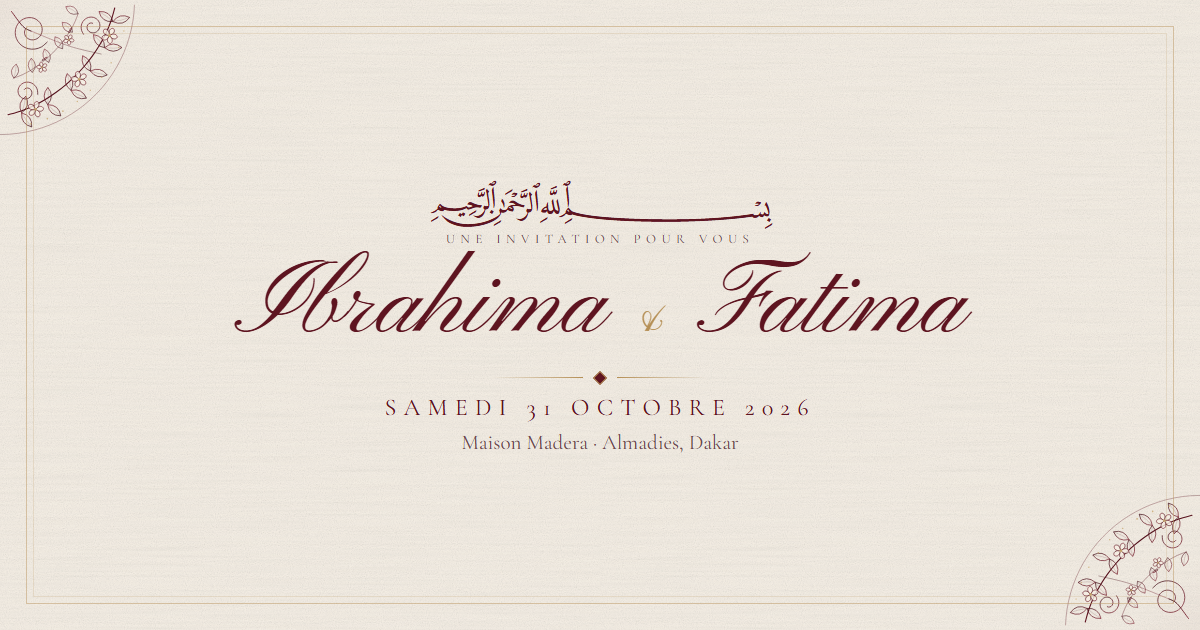
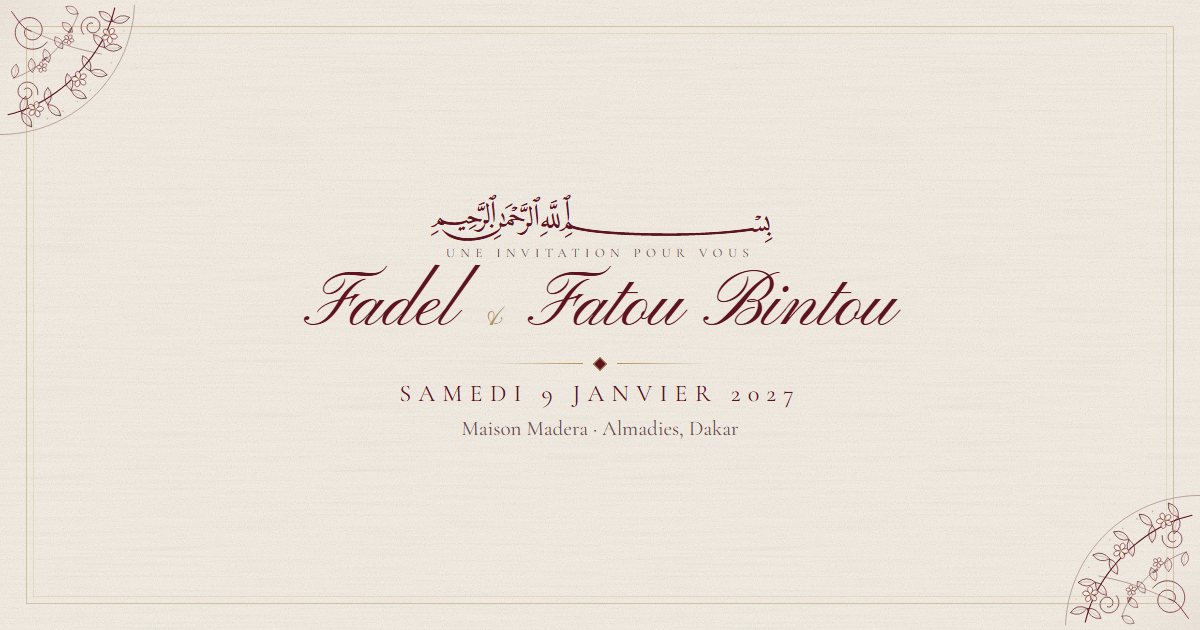
Données du couple (Fadel & Fatou Bintou, 9 janvier 2027) : titres, métadonnées de partage, carte d'aperçu pilotée par config.js

diff --git a/index.html b/index.html
@@ -3,19 +3,19 @@
 <head>
   <meta charset="utf-8">
   <meta name="viewport" content="width=device-width, initial-scale=1, viewport-fit=cover">
-  <title>Ibrahima &amp; Fatima · 31 octobre 2026</title>
-  <meta name="description" content="Ibrahima et Fatima ont la joie de vous inviter à leur union, le samedi 31 octobre 2026 à la Maison Madera, Almadies, Dakar.">
+  <title>Fadel &amp; Fatou Bintou · 9 janvier 2027</title>
+  <meta name="description" content="Fadel et Fatou Bintou ont la joie de vous inviter à leur union, le samedi 9 janvier 2027 à la Maison Madera, Almadies, Dakar.">
   <meta name="theme-color" content="#f6efe4">
   <meta property="og:type" content="website">
-  <meta property="og:site_name" content="Ibrahima &amp; Fatima">
+  <meta property="og:site_name" content="Fadel &amp; Fatou Bintou">
   <meta property="og:locale" content="fr_FR">
   <meta property="og:url" content="https://ibfaye-senatiq.github.io/invitation/">
-  <meta property="og:title" content="Ibrahima &amp; Fatima · 31 octobre 2026">
-  <meta property="og:description" content="Une belle histoire commence… Nous avons la joie de vous inviter à notre union.">
+  <meta property="og:title" content="Fadel &amp; Fatou Bintou · 9 janvier 2027">
+  <meta property="og:description" content="Une belle histoire commence… Nous avons la joie de vous inviter à notre union. Samedi 9 janvier 2027, Maison Madera, Almadies, Dakar.">
   <meta property="og:image" content="https://ibfaye-senatiq.github.io/invitation/assets/apercu.png">
   <meta property="og:image:width" content="1200">
   <meta property="og:image:height" content="630">
-  <meta property="og:image:alt" content="Ibrahima &amp; Fatima — 31 octobre 2026">
+  <meta property="og:image:alt" content="Fadel &amp; Fatou Bintou — 9 janvier 2027">
   <meta name="twitter:card" content="summary_large_image">
   <meta name="robots" content="noindex">
 
@@ -56,10 +56,10 @@
         <!-- la lettre qui sort -->
         <div class="lettre" id="lettre">
           <div class="lettre-interieur">
-            <span class="lettre-nom" data-cfg="prenoms.a">Ibrahima</span>
+            <span class="lettre-nom" data-cfg="prenoms.a">Fadel</span>
             <span class="lettre-amp">&amp;</span>
-            <span class="lettre-nom" data-cfg="prenoms.b">Fatima</span>
-            <span class="lettre-date" data-cfg="dateCourte">31 · 10 · 2026</span>
+            <span class="lettre-nom" data-cfg="prenoms.b">Fatou Bintou</span>
+            <span class="lettre-date" data-cfg="dateCourte">9 · 1 · 2027</span>
           </div>
         </div>
 
@@ -136,7 +136,7 @@
         <li><a href="#localisation">Localisation</a></li>
         <li><a href="#rsvp">RSVP</a></li>
       </ul>
-      <p class="menu-date" data-cfg="dateCourte">31 · 10 · 2026</p>
+      <p class="menu-date" data-cfg="dateCourte">9 · 1 · 2027</p>
     </nav>
 
     <main id="defilement">
@@ -149,15 +149,15 @@
           <p class="bismillah" lang="ar" dir="rtl">&#xFDFD;</p>
           <p class="sur-titre" data-cfg="textes.surTitreAccueil">Une belle histoire commence…</p>
           <h1 class="noms">
-            <span data-cfg="prenoms.a">Ibrahima</span>
+            <span data-cfg="prenoms.a">Fadel</span>
             <span class="amp">&amp;</span>
-            <span data-cfg="prenoms.b">Fatima</span>
+            <span data-cfg="prenoms.b">Fatou Bintou</span>
           </h1>
           <p class="sur-titre double" data-cfg="textes.sousTitreAccueil">ont la joie de vous inviter<br>à leur union</p>
 
           <div class="ornement" aria-hidden="true"><i></i><b></b><i></i></div>
 
-          <p class="date-maitresse" data-cfg="dateLongue">Samedi 31 octobre 2026</p>
+          <p class="date-maitresse" data-cfg="dateLongue">Samedi 9 janvier 2027</p>
           <p class="sous-titre">
             <span data-cfg="heure">À partir de 16h</span><br>
             <span data-cfg="lieu.nom">Maison Madera</span> · <span data-cfg="lieu.detail">Almadies, Dakar · Sénégal</span>
@@ -195,7 +195,7 @@
         <div class="panneau-interieur apparait">
           <h2>Le programme</h2>
           <div class="ornement" aria-hidden="true"><i></i><b></b><i></i></div>
-          <p class="sous-titre" data-cfg="programme.jour">Samedi 31 octobre 2026</p>
+          <p class="sous-titre" data-cfg="programme.jour">Samedi 9 janvier 2027</p>
           <ol class="deroule" id="deroule"></ol>
         </div>
       </section>

diff --git a/tools/apercu-social.html b/tools/apercu-social.html
@@ -38,9 +38,26 @@
 <div class="centre">
   <p class="bismillah">&#xFDFD;</p>
   <p class="sur">Une invitation pour vous</p>
-  <p class="noms">Ibrahima <b>&amp;</b> Fatima</p>
+  <p class="noms"><span id="a">Fadel</span> <b>&amp;</b> <span id="b">Fatou Bintou</span></p>
   <div class="filet"><i></i><s></s><i></i></div>
-  <p class="date">Samedi 31 octobre 2026</p>
-  <p class="lieu">Maison Madera · Almadies, Dakar</p>
+  <p class="date" id="date">Samedi 9 janvier 2027</p>
+  <p class="lieu" id="lieu">Maison Madera · Almadies, Dakar</p>
 </div>
+<script src="../config.js"></script>
+<script>
+  // Hydratation depuis config.js : la carte d'aperçu ne peut pas se désynchroniser de l'invitation.
+  const C = window.INVITATION || {};
+  const poser = (id, valeur) => {
+    const el = document.getElementById(id);
+    if (el && typeof valeur === "string" && valeur) el.textContent = valeur;
+  };
+  poser("a", C.prenoms && C.prenoms.a);
+  poser("b", C.prenoms && C.prenoms.b);
+  poser("date", C.dateLongue);
+  if (C.lieu) poser("lieu", `${C.lieu.nom} · ${String(C.lieu.detail).split(" · ")[0]}`);
+  // un nom long rétrécit pour rester dans le cadre
+  const noms = document.querySelector(".noms");
+  const long = ((C.prenoms && C.prenoms.a) || "").length + ((C.prenoms && C.prenoms.b) || "").length;
+  if (noms && long > 14) noms.style.fontSize = "76px";
+</script>
 </html>

diff --git a/config.js b/config.js
@@ -42,7 +42,7 @@ window.INVITATION = {
   /* ---------- Le programme ----------
      icones disponibles : accueil · alliances · diner · lune · priere · photo · musique */
   programme: {
-    jour: 'Samedi 31 octobre 2026',
+    jour: 'Samedi 9 janvier 2027',
     etapes: [
       { heure: '16h00', libelle: 'Accueil & mise en place', icone: 'accueil' },
       { heure: '17h15', libelle: 'Takk', icone: 'alliances' },
